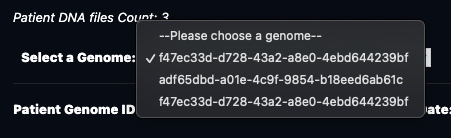
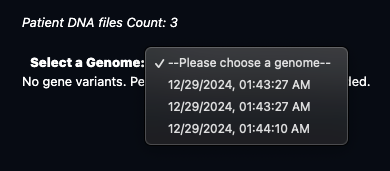
Tidying the Select element

diff --git a/components/UploadForm.tsx b/components/UploadForm.tsx
@@ -34,22 +34,16 @@ const UploadForm: React.FC<UploadFormProps> = ({patientIdFromParentComponent}) =
   }; 
 
   const handleFile = async (chunkFormDataBuffer) => { 
-    console.log('handleFile: chunkFormDataBuffer', chunkFormDataBuffer);
     const vcfDataRows = await chunkFormDataBuffer.split(/\r\n|\n/); 
-    console.log('vcfDataRows', vcfDataRows);
     const vcfDataRowsWithoutHeadingText = await vcfDataRows.filter((x) => String(x).startsWith('rs') || String(x).startsWith('i'));
-    console.log('vcfDataRowsWithoutHeadingText', vcfDataRowsWithoutHeadingText);
     const vcfDelimitedRow = await vcfDataRowsWithoutHeadingText.map((x: any) => x.split('\t')); 
-    console.log('vcfDelimitedRow', vcfDelimitedRow);
     const patientGenomeId = uuidv4();
     try {
       // Database 
-      console.log('patientId', patientId);
       if(!patientId) {
         const defaultProfile: IPatientProfile = await patientsIndexedDb.patientProfile.where('patientName').equals('Default Profile').toArray()[0];
         setPatientId(defaultProfile.patientId); 
       }
-      console.log('patientId after null check', patientId);
       const vcfSource = 'undefined';
       const patientGenome: IPatientGenome = {  
         patientGenomeId: patientGenomeId,
@@ -57,15 +51,12 @@ const UploadForm: React.FC<UploadFormProps> = ({patientIdFromParentComponent}) =
         datetimestamp: Date.now(),
         patientId: patientId,
       }
-      console.log('patientGenome', patientGenome);
       await patientsIndexedDb.patientGenome.add(patientGenome);
     } catch (error) {
         console.error('Error adding genome to database:', error);
     }
     await vcfDelimitedRow.map(async (vcfRow) => {
-      console.log('vcfRow', vcfRow);
       try {
-        console.log(vcfRow);
         const patientGeneVariantId = uuidv4();
         const patientGenomeVariant: IPatientGenomeVariant = { 
           patientGeneVariantId: patientGeneVariantId,
@@ -76,7 +67,6 @@ const UploadForm: React.FC<UploadFormProps> = ({patientIdFromParentComponent}) =
           datetimestamp: Date.now(),
           patientGenomeId: patientGenomeId,
         }
-        console.log('patientGenomeVariant', patientGenomeVariant);
         await patientsIndexedDb.patientGenomeVariant.add(patientGenomeVariant);
       } catch (error) {
           console.error('Error adding gene varients to database:', error);
@@ -85,27 +75,15 @@ const UploadForm: React.FC<UploadFormProps> = ({patientIdFromParentComponent}) =
   }
 
   const addGeneVariants = async (chunkBlob: Blob) => {
-    console.log('addGeneVariants: chunkBlob', chunkBlob);
-    console.log('addGeneVariants: chunkBlob size', chunkBlob.size);
     const reader = new FileReader();
     reader.onload = async () => await handleFile(reader.result);
     reader.readAsText(chunkBlob);
   }
 
   const uploadNextChunksRecursively = async (fileSelectedForUpload: File) => {
-    console.log('uploadNextChunksRecursively: file', fileSelectedForUpload);
-    console.log('end', end);
-    console.log('file.size', fileSelectedForUpload.size)
     if (end <= fileSelectedForUpload.size) {
-
-
       end = start + chunkSize; 
-
-
-      console.log('end <= file.size');
       const chunkBlob = fileSelectedForUpload.slice(start, end);
-      console.log('uploadNextChunksRecursively: chunkBlob size', chunkBlob.size);
-      console.log('chunkBlob', chunkBlob);
       await addGeneVariants(chunkBlob);
       const temp = `Chunk ${ chunkNumber + 1 }/${totalChunks} uploaded successfully`;
       setStatus(temp); 
@@ -116,34 +94,24 @@ const UploadForm: React.FC<UploadFormProps> = ({patientIdFromParentComponent}) =
     } else {
       setImportProgress(0);
       setStatus("File upload completed");
-      end = start + chunkSize; 
     }
   }; 
 
   const handleFileUpload = async(file: File) => { 
-    console.log('handleFileUpload: file', file);
-    console.log('handleFileUpload: file.size', file.size);
     setFileSelectedForUpload(file);
-    console.log('handleFileUpload: fileSelectedForUpload', fileSelectedForUpload);
-    // if (!fileSelectedForUpload) {
-    //   // alert("Please select a file to upload.");
-    //   console.log("Please select a file to upload.");
-    //   return;
-    // }
-    // if(fileSelectedForUpload) {
+    if (!file) {
+      // alert("Please select a file to upload.");
+      console.log("Please select a file to upload.");
+      return;
+    }
+    if(file) {
       totalChunks = Math.ceil(file.size / chunkSize);
       console.log('totalChunks', totalChunks);
       chunkProgress = 100 / totalChunks;
       console.log('chunkProgress', chunkProgress);
       setImportProgress(0);
-      await uploadNextChunksRecursively(file); 
-      // totalChunks = Math.ceil(fileSelectedForUpload.size / chunkSize);
-      // console.log('totalChunks', totalChunks);
-      // chunkProgress = 100 / totalChunks;
-      // console.log('chunkProgress', chunkProgress);
-      // setImportProgress(0);
-      // await uploadNextChunksRecursively(fileSelectedForUpload); 
-    // }
+      await uploadNextChunksRecursively(file);  
+    }
   }
 
   const updateImportProgress = ({ totalRows, completedRows }: { totalRows: any, completedRows: number }): boolean => {

diff --git a/pages/patient/report/[[...patient_id]].tsx b/pages/patient/report/[[...patient_id]].tsx
@@ -16,8 +16,8 @@ interface GenomePageProps {
 }
 
 const GenomePage: React.FC<GenomePageProps> = (props) => {  
-    const { modelContent, modalVisible, updateModalContent, toggleModalVisible } = useContext(ModalContext);
-    const { drawerContent, drawerVisible, updateDrawerContent, toggleDrawerVisible } = useContext(DrawerContext);
+    const { modalTitle, modelContent, modalVisible, updateModalTitle, updateModalContent, toggleModalVisible } = useContext(ModalContext);
+    const { drawerTiitle, drawerContent, drawerVisible, updateDrawerTitle, updateDrawerContent, toggleDrawerVisible } = useContext(DrawerContext);
     const [patientId, setPatientId] = useState<string>('');
     const [error, setError] = useState(null); 
     // Router
@@ -32,15 +32,30 @@ const GenomePage: React.FC<GenomePageProps> = (props) => {
         updateModalContent(<div><h2 className="text-2xl font-bold text-gray-900">Upload Patient File</h2><div className="mt-2 px-7 py-3"><UploadForm patientIdFromParentComponent={patientId} /></div></div>);
         toggleModalVisible(true);
     }  
+    
+    // --------------
+    // Drawer Content
+    // --------------
+    
+    const genomeDetailsDrawerContent = (content) => {
+        return (
+            <>
+                <Separator className="my-4" /> 
+                {content && (
+                    <div>
+                        {Object.entries(content).map(([key, value]: any): any => (
+                            <p key={key} className='drawer-item'><strong>{key}:</strong> {value}</p>
+                        ))}
+                    </div>
+                )} 
+            </>
+        );
+    };
 
     const handleSelectedDataRowChange = (e) => {
-        // updateDrawerContent(<div>
-        //     <h2 className="text-2xl font-bold text-gray-900">Risk Report Item Details</h2>
-        //     {e.array.forEach(element => 
-        //         <div>A: {element}</div>
-        //     )} 
-        // </div>);
-        // toggleDrawerVisible(true);
+        updateDrawerTitle("Risk/SNP (Gene Variant) Details");
+        updateDrawerContent(genomeDetailsDrawerContent(e)); 
+        toggleDrawerVisible(true);
     }
 
     // -------
@@ -51,7 +66,7 @@ const GenomePage: React.FC<GenomePageProps> = (props) => {
 
     const handleSelectedPatientChange = (event: React.ChangeEvent<HTMLSelectElement>) => {
         // http://127.0.0.1:3000/patient/genome?patientId=[x]
-        router.push(`/patient/genome/${event.target.value}`);
+        router.push(`/patient/report/${event.target.value}`);
     };
  
     const patientProfiles = useLiveQuery( 
@@ -168,7 +183,7 @@ const GenomePage: React.FC<GenomePageProps> = (props) => {
                             <Separator className="my-4" /> 
 
                             <p><em>Patient DNA files Count: {selectedPatientGenomes.length}</em></p>
-                            <Select selectData={selectedPatientGenomes} selectDataKey={'patientGenomeId'} displayField={'patientGenomeId'} selectTitle={"Select a Genome:"} placeholder={"Please choose a genome"} error={error} selectedOption={selectedPatientGenome} handleSelectChange={handleSelectedPatientGenomeChange} />
+                            <Select selectData={selectedPatientGenomes} selectDataKey={'datetimestamp'} displayField={'datetimestamp'} selectTitle={"Select a Genome:"} placeholder={"Please choose a DNA file"} error={error} selectedOption={selectedPatientGenome} handleSelectChange={handleSelectedPatientGenomeChange} />
 
                             {!selectedPatientGenome ? (
                                 <div>No gene variants. Perhaps no DNA file has been uploaded. {error}</div>

diff --git a/pages/patient/genome/[[...patient_id]].tsx b/pages/patient/genome/[[...patient_id]].tsx
@@ -37,7 +37,7 @@ const GenomePage: React.FC<GenomePageProps> = (props) => {
     // Drawer Content
     // --------------
     
-    const genomeDetailsDrawerContent = (title, content) => {
+    const genomeDetailsDrawerContent = (content) => {
         return (
             <>
                 <Separator className="my-4" /> 
@@ -55,8 +55,8 @@ const GenomePage: React.FC<GenomePageProps> = (props) => {
 
               
     const handleSelectedDataRowChange = (e) => {
-        updateDrawerTitle("Gene Variant ");
-        updateDrawerContent(genomeDetailsDrawerContent('Gene Variant Details', e)); 
+        updateDrawerTitle("Gene Variant Details");
+        updateDrawerContent(genomeDetailsDrawerContent(e)); 
         toggleDrawerVisible(true);
     }
 
@@ -185,7 +185,7 @@ const GenomePage: React.FC<GenomePageProps> = (props) => {
                             <Separator className="my-4" /> 
 
                             <p><em>Patient DNA files Count: {selectedPatientGenomes.length}</em></p>
-                            <Select selectData={selectedPatientGenomes} selectDataKey={'patientGenomeId'} displayField={'patientGenomeId'} selectTitle={"Select a Genome:"} placeholder={"Please choose a genome"} error={error} selectedOption={selectedPatientGenome} handleSelectChange={handleSelectedPatientGenomeChange} />
+                            <Select selectData={selectedPatientGenomes} selectDataKey={'datetimestamp'} displayField={'datetimestamp'} selectTitle={"Select a Genome:"} placeholder={"Please choose a DNA file"} error={error} selectedOption={selectedPatientGenome} handleSelectChange={handleSelectedPatientGenomeChange} />
 
                             {!selectedPatientGenome ? (
                                 <div>No gene variants. Perhaps no DNA file has been uploaded. {error}</div>

diff --git a/components/Select.tsx b/components/Select.tsx
@@ -34,8 +34,9 @@ const Select: React.FC<SelectProps> = ({ selectData, selectDataKey, displayField
                  {/* value={selectedOptionId}>  */}
                 <option value="">--{placeholder}--</option>
                 {selectData.map((profile: any) => (
-                    <option key={profile[selectDataKey]} value={profile[selectDataKey]}> 
-                        {profile[displayField]}
+                    <option key={profile[selectDataKey]} value={profile[selectDataKey]} 
+                > 
+                        {displayField === 'datetimestamp' ? new Intl.DateTimeFormat('en-US', {year: 'numeric', month: '2-digit',day: '2-digit', hour: '2-digit', minute: '2-digit', second: '2-digit'}).format(profile[displayField]) : profile[displayField]}
                     </option>
                 ))}
             </select>

diff --git a/components/RiskReport.tsx b/components/RiskReport.tsx
@@ -7,7 +7,7 @@ import { IFullReport } from "@/models/db";
 interface RiskReportProps {
   riskReportRowsData: any;
   columns: any;
-  handleSelectedDataRowChange:() => void
+  handleSelectedDataRowChange:(e: any) => void
 }
 
 const RiskReport: FC<RiskReportProps> = ({riskReportRowsData, columns, handleSelectedDataRowChange}) => {   
